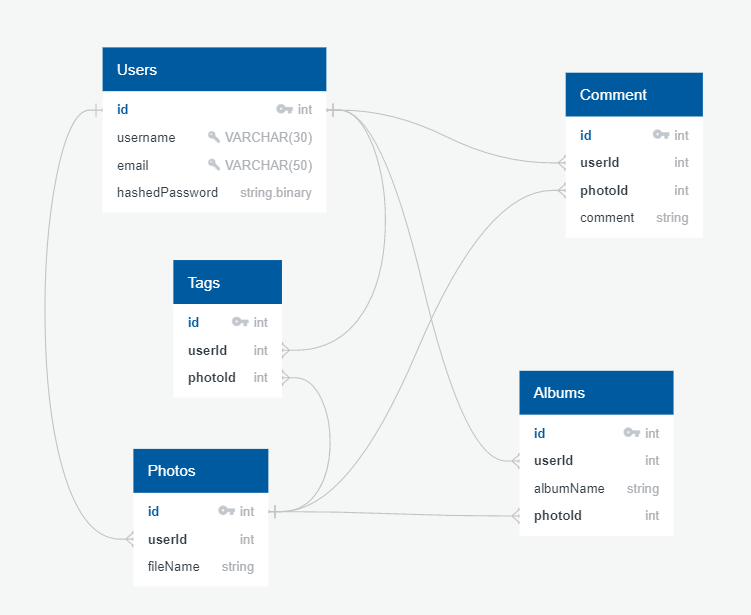
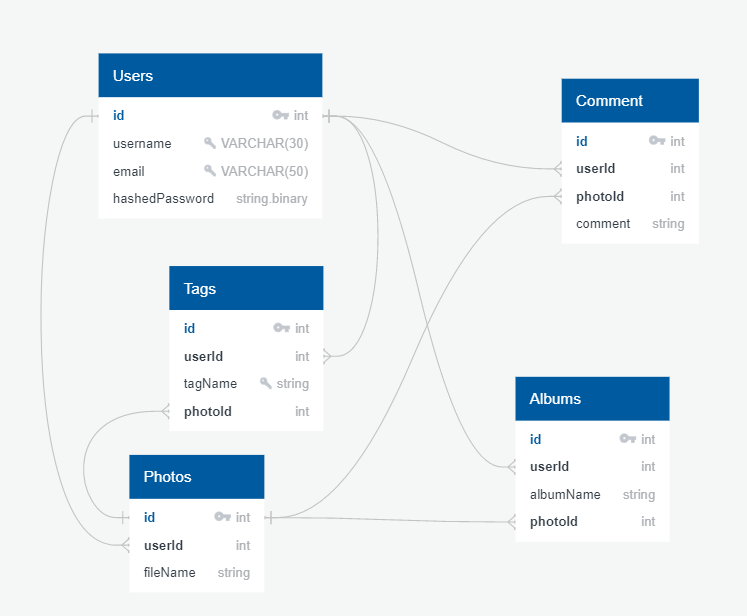
models completed, starting migrations

diff --git a/backend/db/migrations/20201121174857-create-album.js b/backend/db/migrations/20201121174857-create-album.js
@@ -1,25 +1,26 @@
-'use strict';
+"use strict";
 module.exports = {
-  up: (queryInterface, Sequelize) => {
-    return queryInterface.createTable("Albums", {
+	up: (queryInterface, Sequelize) => {
+		return queryInterface.createTable("Albums", {
 			id: {
 				allowNull: false,
 				autoIncrement: true,
 				primaryKey: true,
 				type: Sequelize.INTEGER,
 			},
-			albumName: {
-				type: Sequelize.STRING,
-			},
 			userId: {
 				type: Sequelize.INTEGER,
 				references: { model: "Users" },
 				allowNull: false,
 			},
+			albumName: {
+        type: Sequelize.STRING,
+        allowNull: false,
+			},
 			photoId: {
 				type: Sequelize.INTEGER,
-        allowNull: false,
-        references: {model: "Photos"}
+				allowNull: false,
+				references: { model: "Photos" },
 			},
 			createdAt: {
 				allowNull: false,
@@ -30,8 +31,8 @@ module.exports = {
 				type: Sequelize.DATE,
 			},
 		});
-  },
-  down: (queryInterface, Sequelize) => {
-    return queryInterface.dropTable('Albums');
-  }
+	},
+	down: (queryInterface, Sequelize) => {
+		return queryInterface.dropTable("Albums");
+	},
 };

diff --git a/backend/db/migrations/20201121071049-create-photo.js b/backend/db/migrations/20201121071049-create-photo.js
@@ -9,10 +9,13 @@ module.exports = {
         type: Sequelize.INTEGER
       },
       userId: {
-        type: Sequelize.INTEGER
+        type: Sequelize.INTEGER,
+        allowNull: false,
+        references: {model: "Users"}
       },
       fileName: {
-        type: Sequelize.STRING
+        type: Sequelize.STRING,
+        allowNull: false,
       },
       createdAt: {
         allowNull: false,

diff --git a/backend/db/migrations/20201121174517-create-tag.js b/backend/db/migrations/20201121174517-create-tag.js
@@ -8,9 +8,15 @@ module.exports = {
 				primaryKey: true,
 				type: Sequelize.INTEGER,
 			},
-			name: {
+			userId: {
+				type: Sequelize.INTEGER,
+				allowNull: false,
+				references: { model: "Users" },
+			},
+			tagName: {
 				type: Sequelize.STRING,
 				allowNull: false,
+				unique: true,
 			},
 			photoId: {
 				type: Sequelize.INTEGER,
